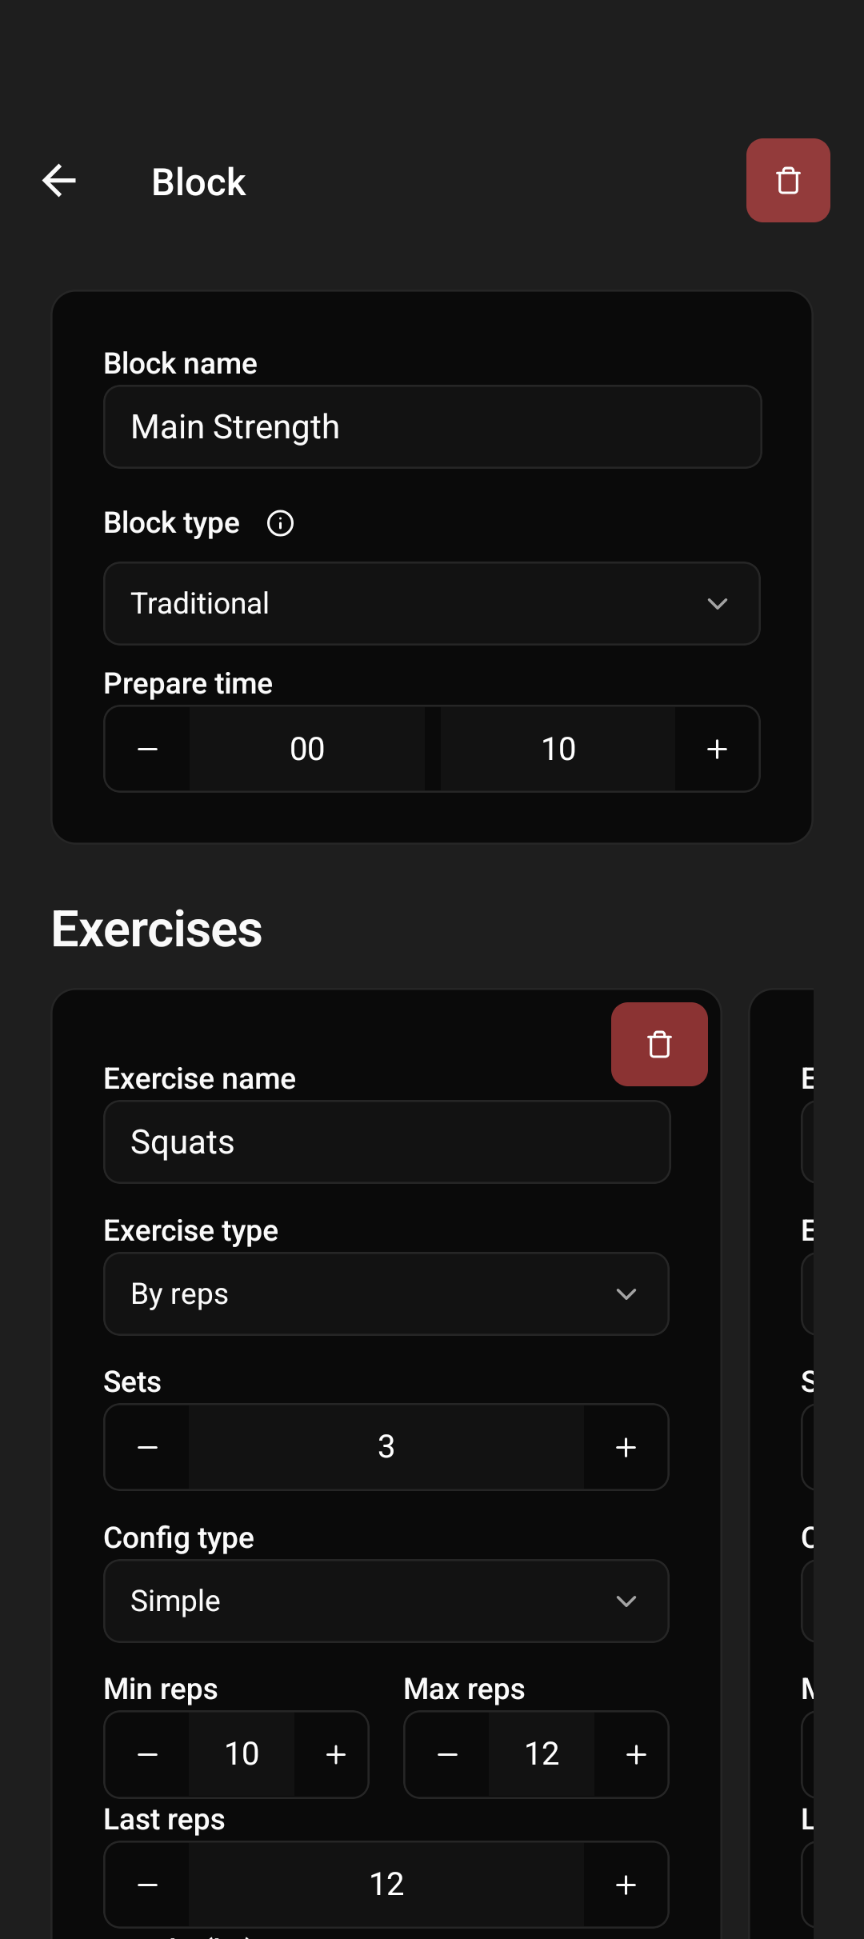
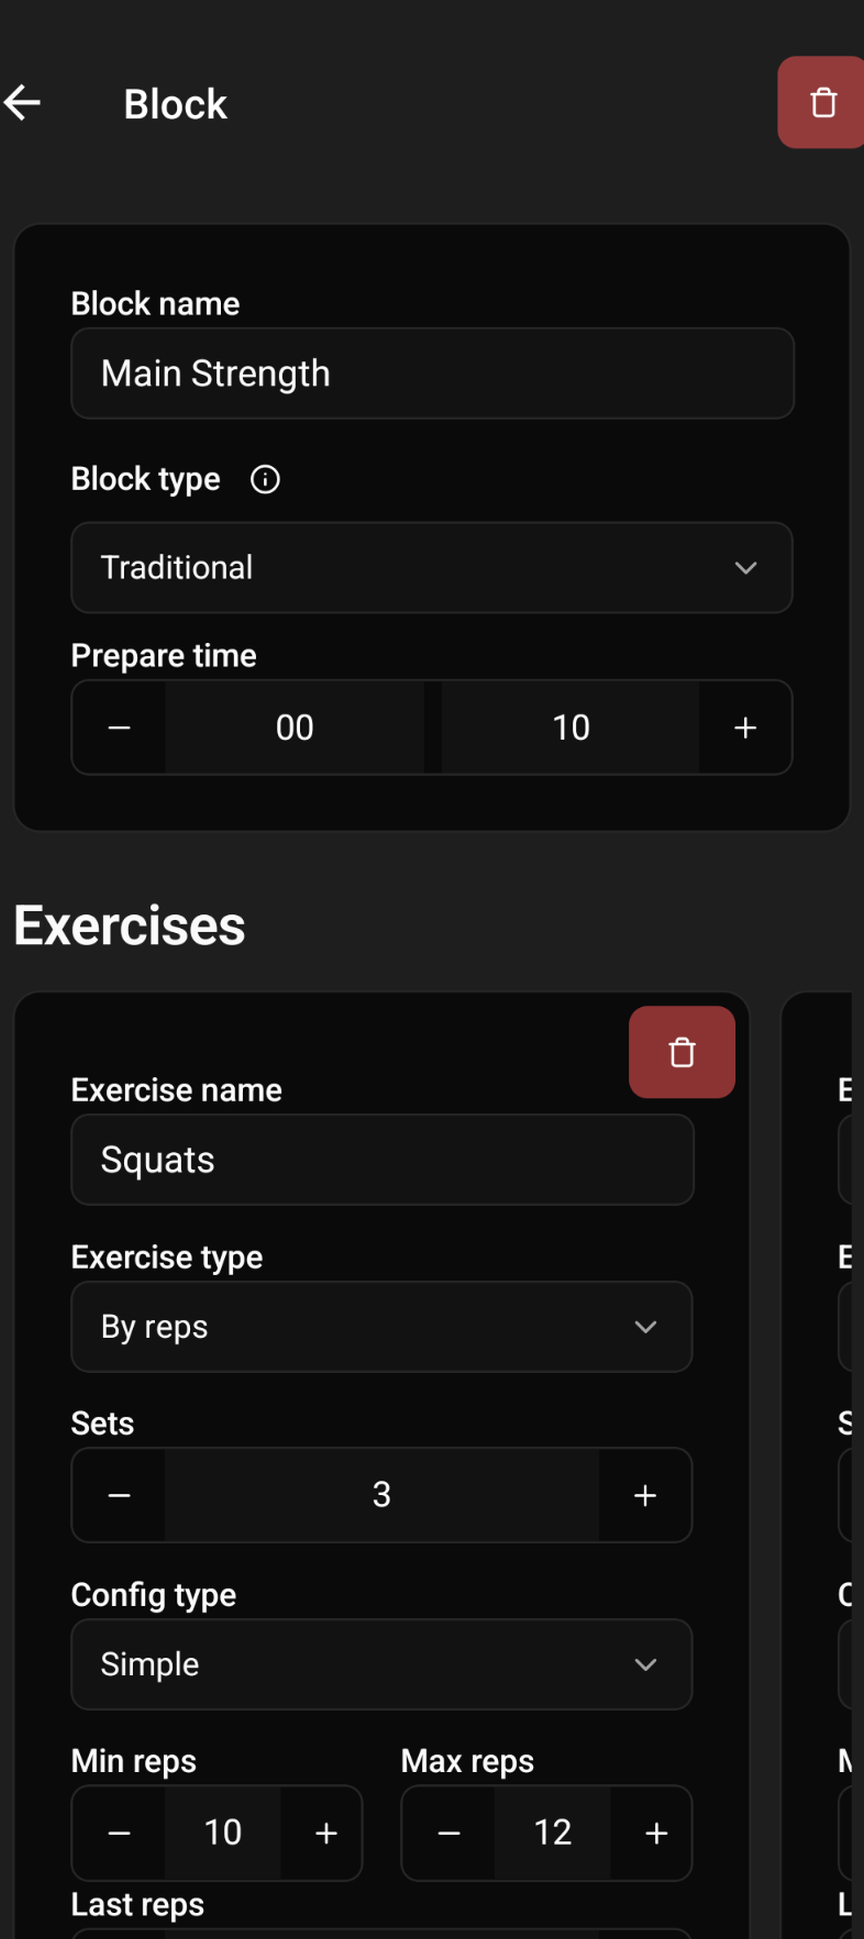
Update README.md

diff --git a/README.md b/README.md
@@ -104,11 +104,11 @@ Auxo supports six block types:
 
 ## Screenshots
 
-| Workouts list                               | Workout form                               | Block form                                     |
-| ------------------------------------------- | ------------------------------------------ | ---------------------------------------------- |
+| Workouts list | Workout form | Block form |
+| ------------------------------------------ | ------------------------------------------| ------------------------------------------ |
 | ![](/assets/images/phone/workouts-list.png) | ![](/assets/images/phone/workout-form.png) | ![](/assets/images/phone/block-form.png) |
 
-| Workout progress                           | Flexible workout                               |
+| Workout progress | Flexible workout |
 | ------------------------------------------ | ---------------------------------------------- |
 | ![](/assets/images/phone/main-workout.png) | ![](/assets/images/phone/flexible-workout.png) |
 
